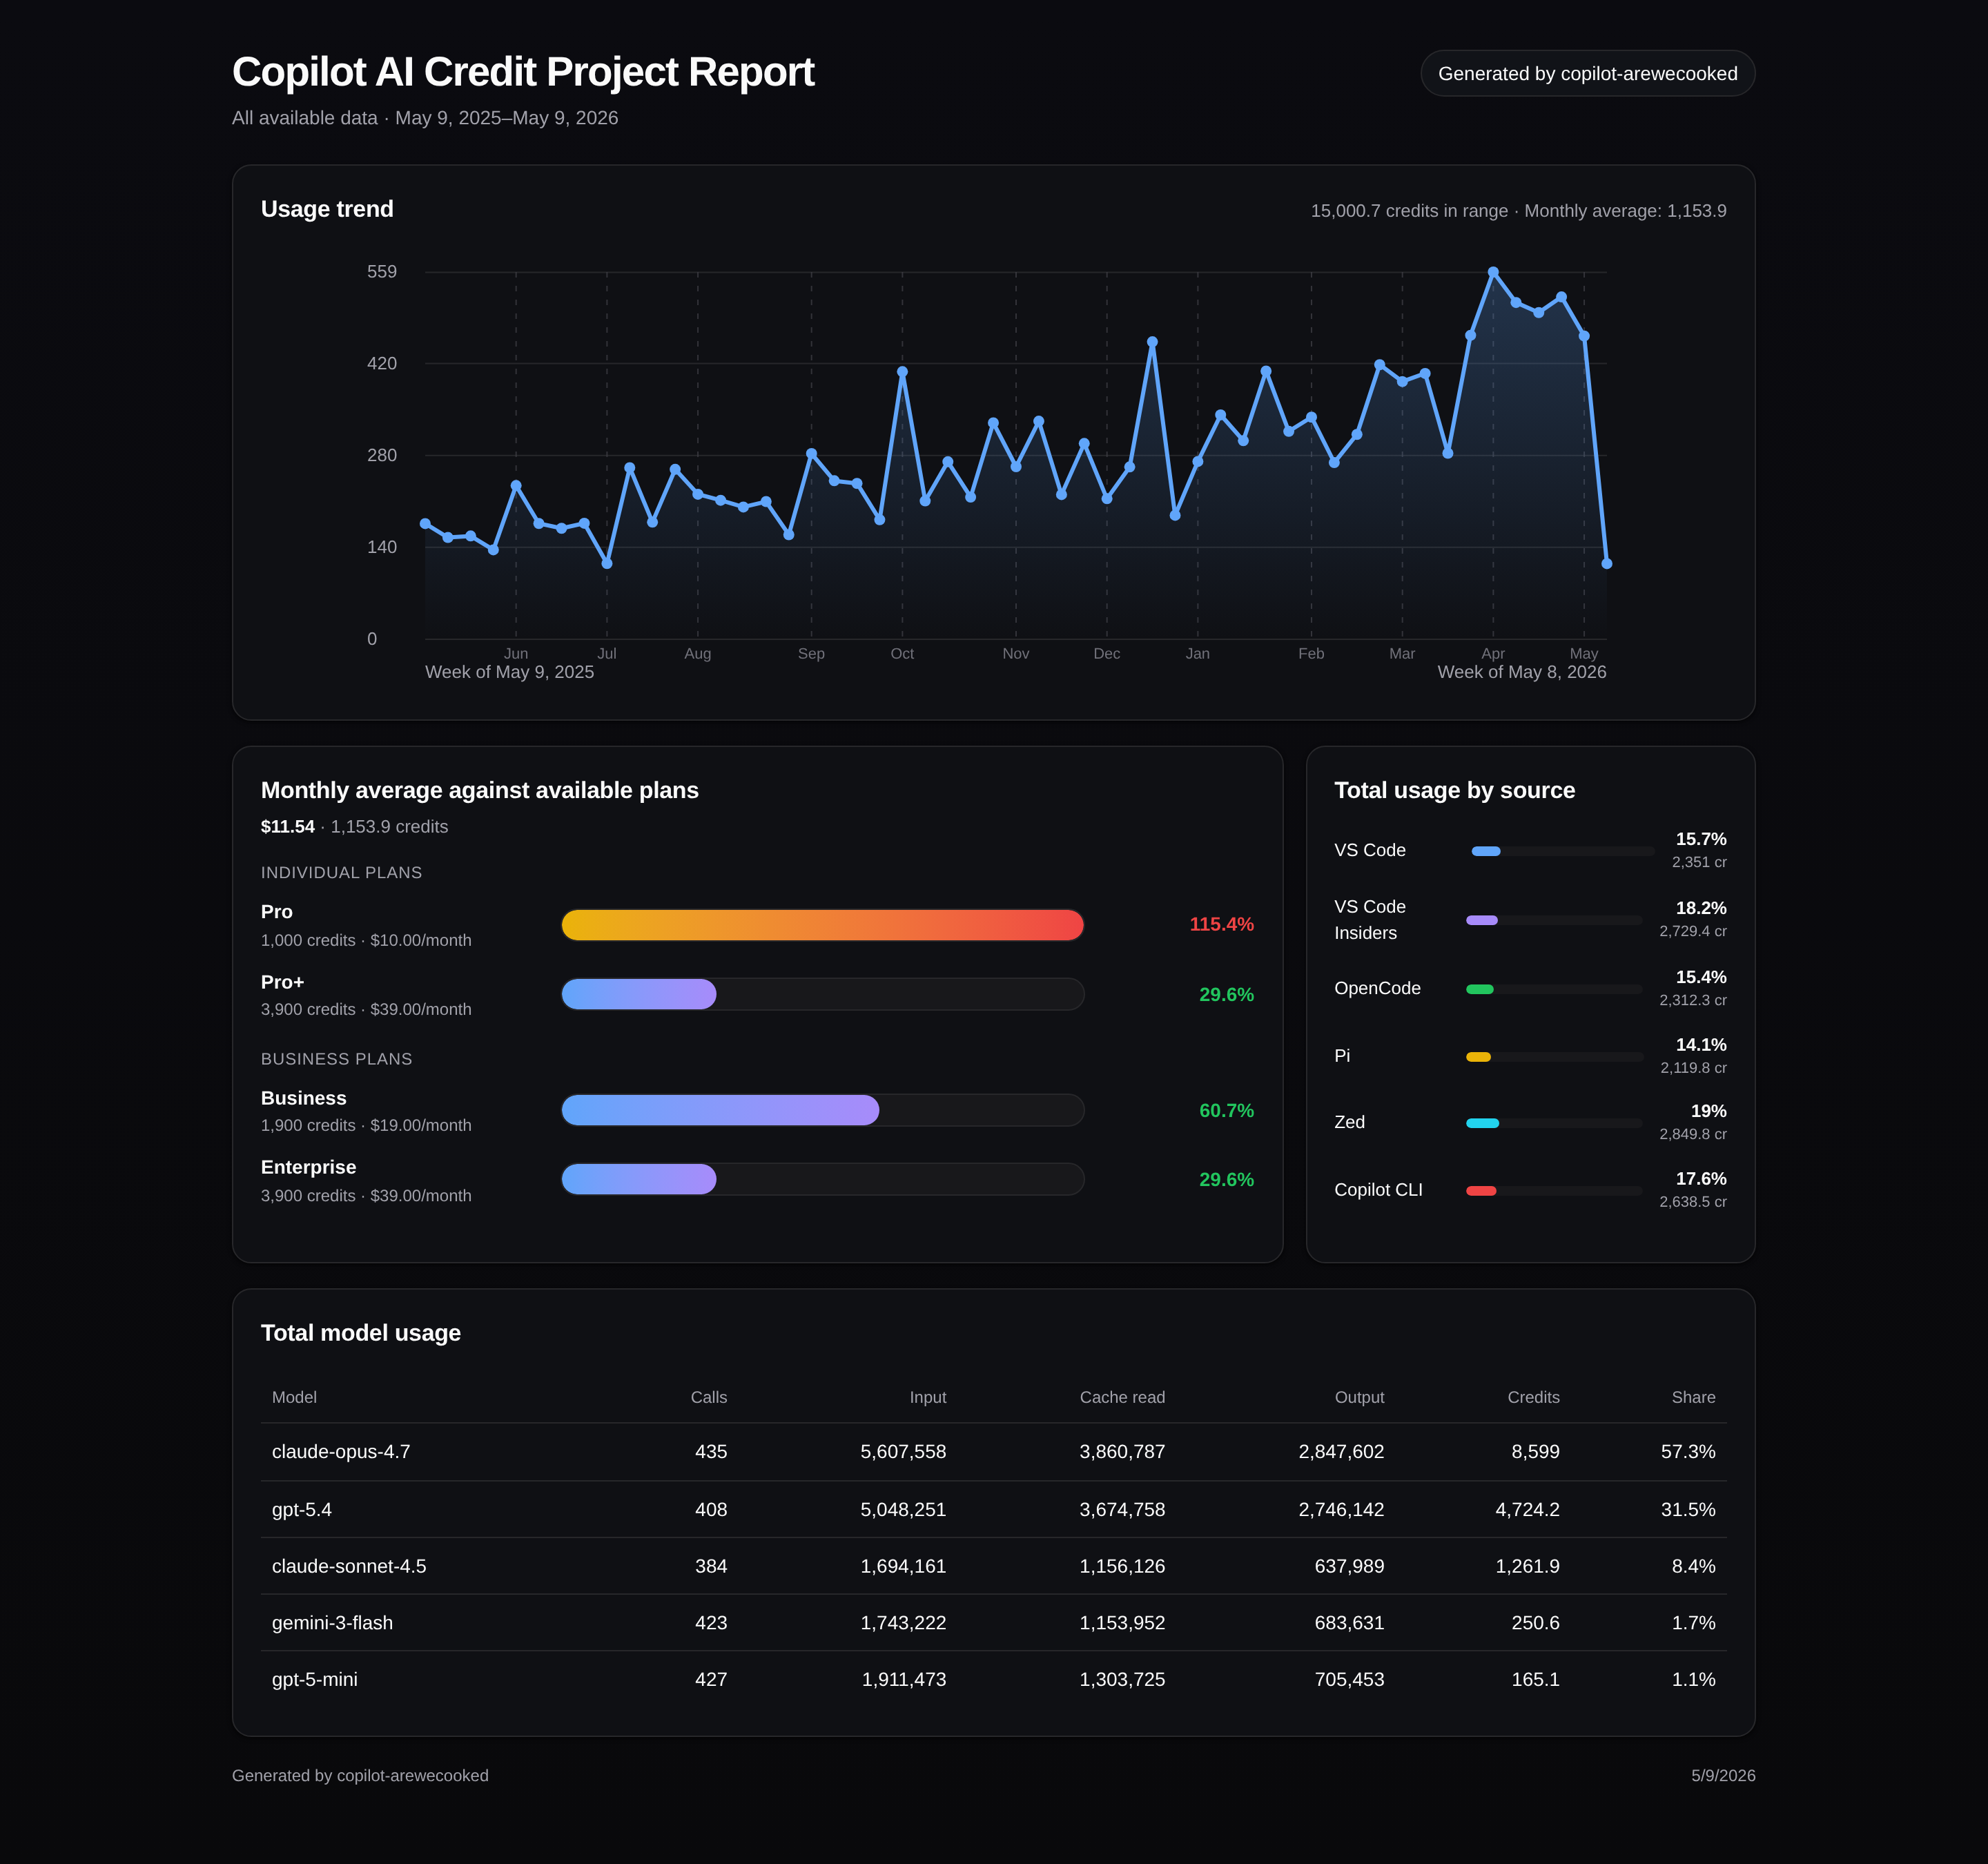
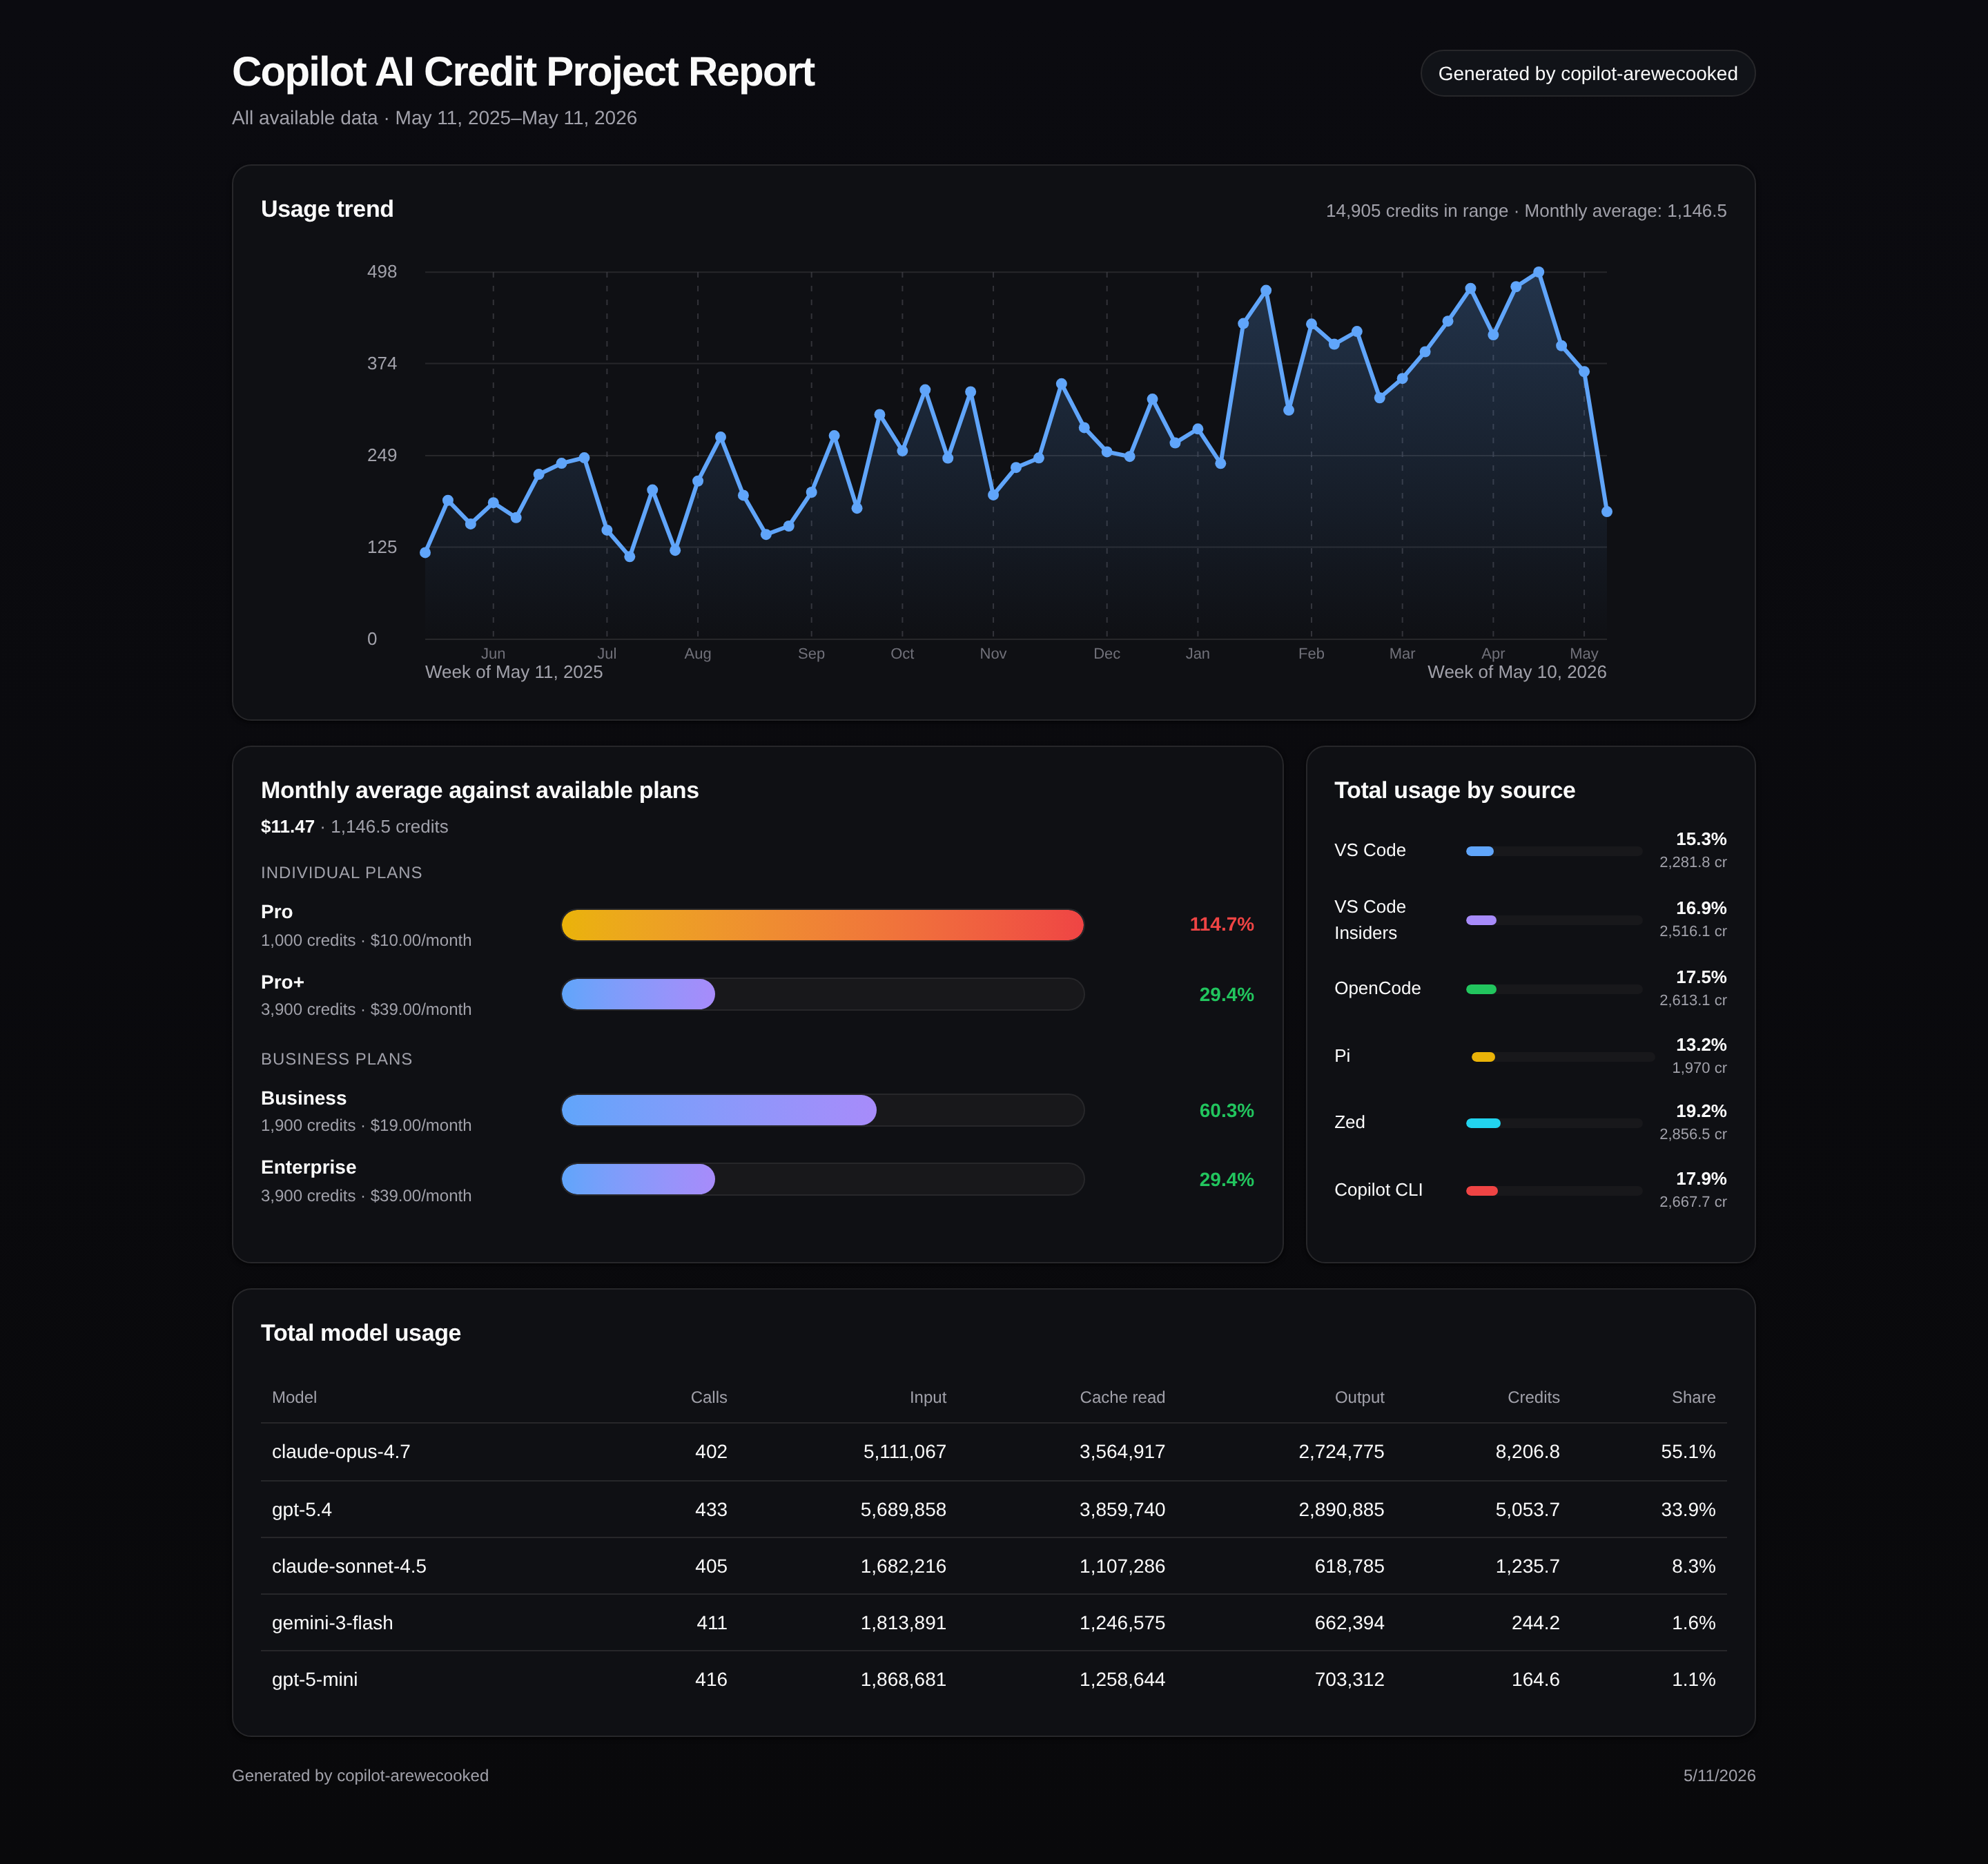
Merge pull request #84 from PanAchy/develop
chore(release): merge develop into main

Pull request: chore(release): merge develop into main
## What changed

- Make puppeteer optional and gracefully skip PNG screenshot on failure (fixes #80)
- Add CI workflow for build and test on Node 20, 22, 24
- Skip zstd-dependent tests on Node 20 where zstdCompressSync is unavailable
- Guard source adapter parse calls with try/catch so one broken source does not crash the report

## Conventional Commits in this release

- fix(cli): make puppeteer optional and gracefully skip PNG on failure
- ci: add CI workflow for build and test on Node 20, 22, 24
- fix: skip zstd tests on Node 20 and guard source adapters from crashes

## Test plan

- [ ] CI passes on all three Node versions
- [ ] Tool installs and runs via npx on a machine without puppeteer
- [ ] HTML report is generated, PNG is skipped gracefully on ARM/unsupported platforms

diff --git a/src/__tests__/zed.test.ts b/src/__tests__/zed.test.ts
@@ -6,6 +6,8 @@ import Database from "better-sqlite3";
 import zlib from "node:zlib";
 import { parseZed } from "../zed.js";
 
+const hasZstd = typeof zlib.zstdCompressSync === "function";
+
 let tmpDir: string;
 let dbPath: string;
 
@@ -68,8 +70,8 @@ function insertThread(
   };
 
   const json = Buffer.from(JSON.stringify(payload), "utf8");
-  const data =
-    (args.dataType ?? "zstd") === "json" ? json : zlib.zstdCompressSync(json);
+  const useZstd = (args.dataType ?? "zstd") === "zstd";
+  const data = useZstd ? zlib.zstdCompressSync!(json) : json;
 
   db.prepare(
     `INSERT INTO threads (id, updated_at, created_at, data_type, data)
@@ -90,7 +92,7 @@ describe("parseZed", () => {
     expect(records).toHaveLength(0);
   });
 
-  it("reads zstd-compressed cumulative token usage", () => {
+  it.skipIf(!hasZstd)("reads zstd-compressed cumulative token usage", () => {
     const db = createDb();
     insertThread(db, { id: "thread-1" });
     db.close();
@@ -131,7 +133,7 @@ describe("parseZed", () => {
     expect(records[0]!.cacheWriteTokens).toBe(5);
   });
 
-  it("sums cumulative token usage arrays defensively", () => {
+  it.skipIf(!hasZstd)("sums cumulative token usage arrays defensively", () => {
     const db = createDb();
     insertThread(db, {
       id: "thread-array",
@@ -159,38 +161,41 @@ describe("parseZed", () => {
     expect(records[0]!.cacheWriteTokens).toBe(3);
   });
 
-  it("falls back to summing request token usage when cumulative usage is empty", () => {
-    const db = createDb();
-    insertThread(db, {
-      id: "thread-request-usage",
-      cumulativeTokenUsage: {},
-      requestTokenUsage: {
-        req1: {
-          input_tokens: 100,
-          output_tokens: 20,
-          cache_read_input_tokens: 5,
-          cache_creation_input_tokens: 1,
+  it.skipIf(!hasZstd)(
+    "falls back to summing request token usage when cumulative usage is empty",
+    () => {
+      const db = createDb();
+      insertThread(db, {
+        id: "thread-request-usage",
+        cumulativeTokenUsage: {},
+        requestTokenUsage: {
+          req1: {
+            input_tokens: 100,
+            output_tokens: 20,
+            cache_read_input_tokens: 5,
+            cache_creation_input_tokens: 1,
+          },
+          req2: {
+            input_tokens: 50,
+            output_tokens: 8,
+            cache_read_input_tokens: 2,
+            cache_creation_input_tokens: 3,
+          },
         },
-        req2: {
-          input_tokens: 50,
-          output_tokens: 8,
-          cache_read_input_tokens: 2,
-          cache_creation_input_tokens: 3,
-        },
-      },
-    });
-    db.close();
+      });
+      db.close();
 
-    const { records } = parseZed(dbPath);
-    expect(records).toHaveLength(1);
-    expect(records[0]!.inputTokens).toBe(150);
-    expect(records[0]!.outputTokens).toBe(28);
-    expect(records[0]!.cacheReadTokens).toBe(7);
-    expect(records[0]!.cacheWriteTokens).toBe(4);
-    expect(records[0]!.calls).toBe(2);
-  });
+      const { records } = parseZed(dbPath);
+      expect(records).toHaveLength(1);
+      expect(records[0]!.inputTokens).toBe(150);
+      expect(records[0]!.outputTokens).toBe(28);
+      expect(records[0]!.cacheReadTokens).toBe(7);
+      expect(records[0]!.cacheWriteTokens).toBe(4);
+      expect(records[0]!.calls).toBe(2);
+    }
+  );
 
-  it("filters rows older than sinceMs", () => {
+  it.skipIf(!hasZstd)("filters rows older than sinceMs", () => {
     const db = createDb();
     insertThread(db, { id: "old", updatedAt: "2026-05-01T00:00:00.000Z" });
     insertThread(db, { id: "new", updatedAt: "2026-05-10T00:00:00.000Z" });
@@ -204,7 +209,7 @@ describe("parseZed", () => {
     expect(records[0]!.sessionId).toBe("new");
   });
 
-  it("skips non-copilot providers", () => {
+  it.skipIf(!hasZstd)("skips non-copilot providers", () => {
     const db = createDb();
     insertThread(db, {
       id: "thread-other",
@@ -220,25 +225,28 @@ describe("parseZed", () => {
     );
   });
 
-  it("reports decode failures without aborting the parse", () => {
-    const db = createDb();
-    insertThread(db, { id: "good-thread" });
-    db.prepare(
-      `INSERT INTO threads (id, updated_at, created_at, data_type, data)
+  it.skipIf(!hasZstd)(
+    "reports decode failures without aborting the parse",
+    () => {
+      const db = createDb();
+      insertThread(db, { id: "good-thread" });
+      db.prepare(
+        `INSERT INTO threads (id, updated_at, created_at, data_type, data)
        VALUES (?, ?, ?, ?, ?)`
-    ).run(
-      "bad-thread",
-      "2026-05-02T00:00:00.000Z",
-      "2026-05-02T00:00:00.000Z",
-      "zstd",
-      Buffer.from("not-zstd")
-    );
-    db.close();
+      ).run(
+        "bad-thread",
+        "2026-05-02T00:00:00.000Z",
+        "2026-05-02T00:00:00.000Z",
+        "zstd",
+        Buffer.from("not-zstd")
+      );
+      db.close();
 
-    const { finding, records } = parseZed(dbPath);
-    expect(records).toHaveLength(1);
-    expect(finding.notes.some((note) => note.includes("bad-thread"))).toBe(
-      true
-    );
-  });
+      const { finding, records } = parseZed(dbPath);
+      expect(records).toHaveLength(1);
+      expect(finding.notes.some((note) => note.includes("bad-thread"))).toBe(
+        true
+      );
+    }
+  );
 });

diff --git a/src/cli.ts b/src/cli.ts
@@ -5,9 +5,9 @@ import { existsSync, writeFileSync } from "node:fs";
 import { createRequire } from "node:module";
 import { resolve } from "node:path";
 import { pathToFileURL } from "node:url";
-import puppeteer from "puppeteer";
 import { buildSummary, costRecords, renderConsole } from "./report.js";
 import { sourceAdapters } from "./sources.js";
+import type { SourceParseResult } from "./source.js";
 import { renderHtml } from "./html.js";
 
 const DEBUG = !!process.env.DEBUG;
@@ -104,7 +104,17 @@ for (const adapter of Object.values(sourceAdapters)) {
   const toCheck = existing.length > 0 ? existing : [paths[0]];
   for (const path of toCheck) {
     const tAdapter = Date.now();
-    const result = adapter.parse(path, sinceMs);
+    let result: SourceParseResult;
+    try {
+      result = adapter.parse(path, sinceMs);
+    } catch (err) {
+      const msg = err instanceof Error ? err.message : String(err);
+      console.error(
+        `Warning: ${adapter.kind} source failed (${msg}). Skipping.`
+      );
+      if (DEBUG && err instanceof Error) console.error(err.stack);
+      continue;
+    }
     dbg(
       `parse ${result.finding.source} (${result.records.length} records)`,
       tAdapter
@@ -150,14 +160,32 @@ if (options.json) {
 
   const pngPath = htmlPath.replace(/\.html$/, "") + ".png";
   const tPng = Date.now();
-  const browser = await puppeteer.launch({ headless: true });
-  const page = await browser.newPage();
-  await page.setViewport({ width: 1440, height: 900, deviceScaleFactor: 2 });
-  await page.goto(pathToFileURL(resolve(htmlPath)).href, {
-    waitUntil: "networkidle0",
-  });
-  await page.screenshot({ path: pngPath, fullPage: true });
-  await browser.close();
-  dbg("png screenshot", tPng);
-  console.log(`PNG screenshot written to ${pngPath}`);
+  try {
+    const puppeteer = await import("puppeteer");
+    const browser = await puppeteer.default.launch({ headless: true });
+    const page = await browser.newPage();
+    await page.setViewport({
+      width: 1440,
+      height: 900,
+      deviceScaleFactor: 2,
+    });
+    await page.goto(pathToFileURL(resolve(htmlPath)).href, {
+      waitUntil: "networkidle0",
+    });
+    await page.screenshot({ path: pngPath, fullPage: true });
+    await browser.close();
+    dbg("png screenshot", tPng);
+    console.log(`PNG screenshot written to ${pngPath}`);
+  } catch (err) {
+    const reason =
+      err instanceof Error && err.message.includes("Cannot find")
+        ? "puppeteer is not installed"
+        : err instanceof Error
+          ? err.message.split("\n")[0]
+          : String(err);
+    console.error(
+      `Skipping PNG screenshot (${reason}). Open the HTML report in a browser instead.`
+    );
+    if (DEBUG && err instanceof Error) console.error(err.stack);
+  }
 }